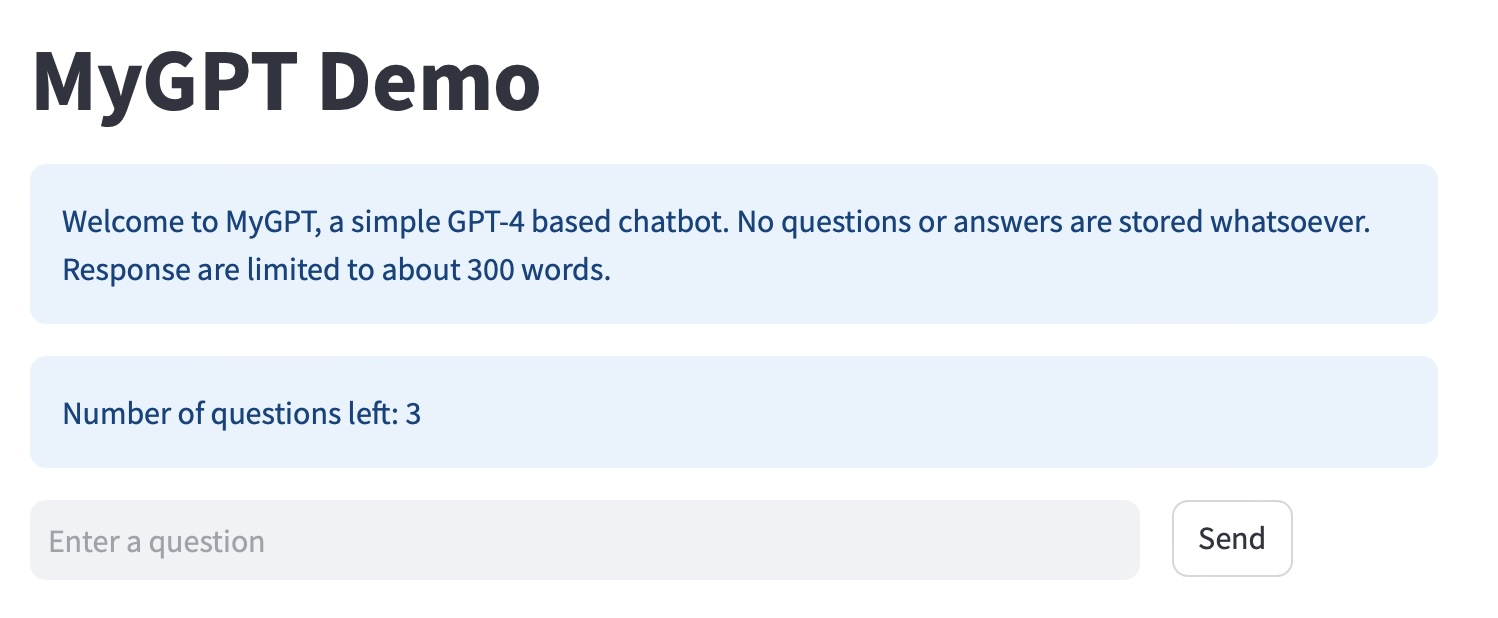
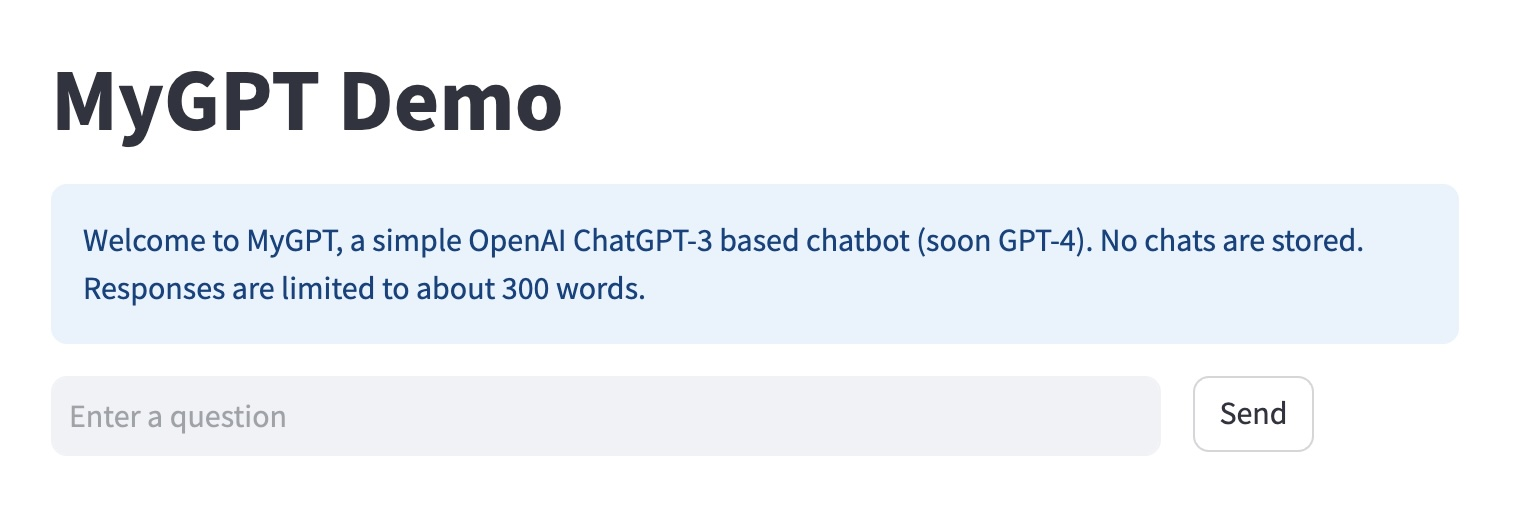
Update

diff --git a/myGPT.py b/myGPT.py
@@ -1,3 +1,6 @@
+# DO NOT RENAME OR MOVE THIS FILE. 
+# Must update GitHub action workflow and documentation in README if you do.
+
 import streamlit as st
 import requests
 import json
@@ -8,7 +11,7 @@ text_input_key = "user_input"
 def query_mygpt(chat):
 
     lambda_url = "https://5faukxw75uazcs2zdl4zbvyg2e0lebie.lambda-url.us-west-1.on.aws/"
-    # print("Please wait while GPT4 is done ...")
+    # print("Please wait while GPT is done ...")
     headers = {'Content-Type': 'application/json'}
     r = requests.post(headers=headers, url=lambda_url, json=json.dumps(chat))
     new_chat = json.loads(r.content.decode('utf-8'))
@@ -29,8 +32,12 @@ def send_message():
     
 
 def show_with_background_color(some_text):
+    """
+    Not used anymore. The ideas was to have custom background color,
+    but it is easier to just have chatbot reply in gray color,
+    that way it works on both dark and light mode. 
+    """
 
-    # Inject custom CSS with st.markdown
     st.markdown("""
         <style>
         .content {
@@ -39,10 +46,10 @@ def show_with_background_color(some_text):
         }
         </style>
         """, unsafe_allow_html=True)
-
     # Display the content with custom style
     st.markdown(f'<div class="content">{some_text}</div>', unsafe_allow_html=True)
 
+    
 
 if 'first time' not in st.session_state:
     st.session_state['number_of_trials'] = 3
@@ -54,11 +61,15 @@ if 'first time' not in st.session_state:
 # Streamlit app layout
 st.title("MyGPT Demo")
 
-st.info(f"Welcome to MyGPT, a simple GPT-4 based chatbot. No chats are stored. Response are limited to about 300 words. ")
+st.info(f"Welcome to MyGPT, a simple OpenAI ChatGPT-3 based chatbot (soon GPT-4). No chats are stored. Responses are limited to about 300 words. ")
 
 for i in range(1, len(st.session_state['chat'] ), 2):
-    a1 = st.write(st.session_state['chat'][i]['content'])
-    a2 = show_with_background_color(st.session_state['chat'][i+1]['content'])
+    # writes previous question
+    question = st.session_state['chat'][i]['content']
+    a1 = st.write(question)
+    # writes previous answer
+    answer = st.session_state['chat'][i+1]['content']
+    a2 = st.markdown(f'<div style="color: gray;">{answer}</div>', unsafe_allow_html=True)
     st.text("\n" * 10) 
     
     

diff --git a/README.md b/README.md
@@ -1,7 +1,11 @@
 # MyChatGPT
 
-This is a small DEMO of API calls for ChatGPT3 (soon ChatGPT4).
+This is a small chatbot demo using OpenAIs ChatGPT3 API (soon ChatGPT4).
 
-Try it at [mygpt.nenadbozinovic.com](mygpt.nenadbozinovic.com).
+Try it at [mygpt.nenadbozinovic.com](http://mygpt.nenadbozinovic.com).
+
+![MyChatGPT](myGPT_thumbnail.jpg)
+
+For details see [myGPT.ipynb](https://github.com/nesaboz/chatbot/blob/main/myGPT.ipynb) notebook.
 
 
